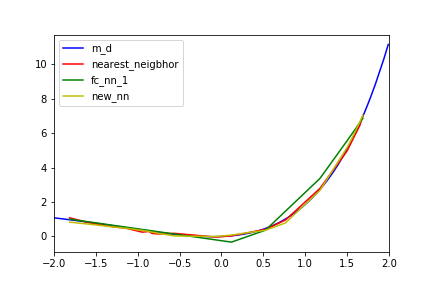
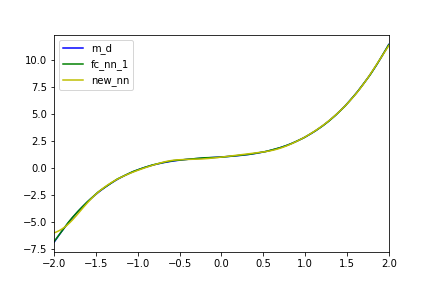
d = 1 liefert jetzt suppa Werte für die gewählte Funktion

diff --git a/01_Code/main.py b/01_Code/main.py
@@ -27,9 +27,9 @@ n = 10000
 
 N = 3
 q = 2
-R = 10
-a = 3
-M = 5
+R = 10 ** 6  
+a = 2
+M = 2
 d = 1
 
 sigma = 0.05
@@ -40,32 +40,32 @@ m_X_train, Y_train = gen_data_Y(X_train,sigma)
 X_test = np.sort(np.random.uniform(low=-2,high=2,size=(int(n * 0.2),d)), axis = 0)
 
 Y_pred_new_nn = new_neural_network_estimate(X_train, Y_train, X_test, N, q, R, d, M, a,)
-Y_pred_fc_nn_1 = fc_neural_1_estimate(X_train, Y_train, X_test)
+#Y_pred_fc_nn_1 = fc_neural_1_estimate(X_train, Y_train, X_test)
 #Y_pred_nearest_neighbor = nearest_neighbor_estimate(X_train, Y_train, X_test)
 
-m_X_test, Ü = gen_data_Y(X_test,sigma)
+m_X_test, dummy = gen_data_Y(X_test,sigma)
 
 plt.plot(X_test, m_X_test, '-b', label='m_d') 
 #plt.plot(X_test, Y_pred_nearest_neighbor, '-r', label='nearest_neigbhor')
-plt.plot(X_test, Y_pred_fc_nn_1, '-g', label='fc_nn_1')
+#plt.plot(X_test, Y_pred_fc_nn_1, '-g', label='fc_nn_1')
 plt.plot(X_test, Y_pred_new_nn, '-y', label='new_nn')  
 plt.legend(loc='upper left') 
 plt.xlim(-2.0, 2.0)
-#plt.show()
-plt.savefig('foo.png')
+plt.show()
+#plt.savefig('foo.png')
 
 '''
 ZWEIDIMENSIONALER FALL (d = 2) wird ein Vergleich des emp. L2 Fehler gemacht 
-'''
-n = 100
+
+n = 10000
 
 # Parameter für unseren neuen Neuronale-Netze-Regressionschätzer
 
 N = 3
 q = 2
-R = 10
-a = 3
-M = 5
+R = 10 ** 6 
+a = 2
+M = 2
 d = 2
 
 sigma = 0.05
@@ -125,4 +125,4 @@ series_noise_1.name = ""
 error_df = pd.concat([series_noise_1], axis=1)
 #print(error_df)
 error_df.to_csv('out.csv',index = True)    
-
+'''

diff --git a/01_Code/data_gen.py b/01_Code/data_gen.py
@@ -29,7 +29,7 @@ def m_d (x, d):
         return sin(0.2 * x[0] ** 2) + exp(0.5 * x[0]) + x[0] ** 3
                    
     elif d == 2:
-        return 5 * exp(- x[0] ** 2 - (x[1] - 2) ** 2) + x[0] ** 2 + (x[1] - 2) ** 2
+        return 5 * exp(- x[0] ** 2 - (x[1] - 2) ** 2) + x[0] ** 2 + (x[1] - 2) ** 3
     
     else:
         print("Your data has the wrong dimension!")

diff --git a/01_Code/new_neural_network.py b/01_Code/new_neural_network.py
@@ -147,15 +147,3 @@ def new_neural_network_estimate(X_train, Y_train, X_test, N, q, R, d, M, a):
         Y_pred[u] = np.sum(np.transpose(weights) * F_net)
         
     return Y_pred
-
-
-    
-    
-
-    
-    
-    
-    
-    
-    
-    

diff --git a/01_Code/fc_neural_network.py b/01_Code/fc_neural_network.py
@@ -45,6 +45,3 @@ def fc_neural_1_estimate (X_train,Y_train,X_test):
     model.fit(X_train, Y_train, epochs=1000, verbose=1) 
     
     return model.predict(X_test)
-
-#prediction_fc_neural_1 = fc_neural_1_estimate(X,y)
-   
